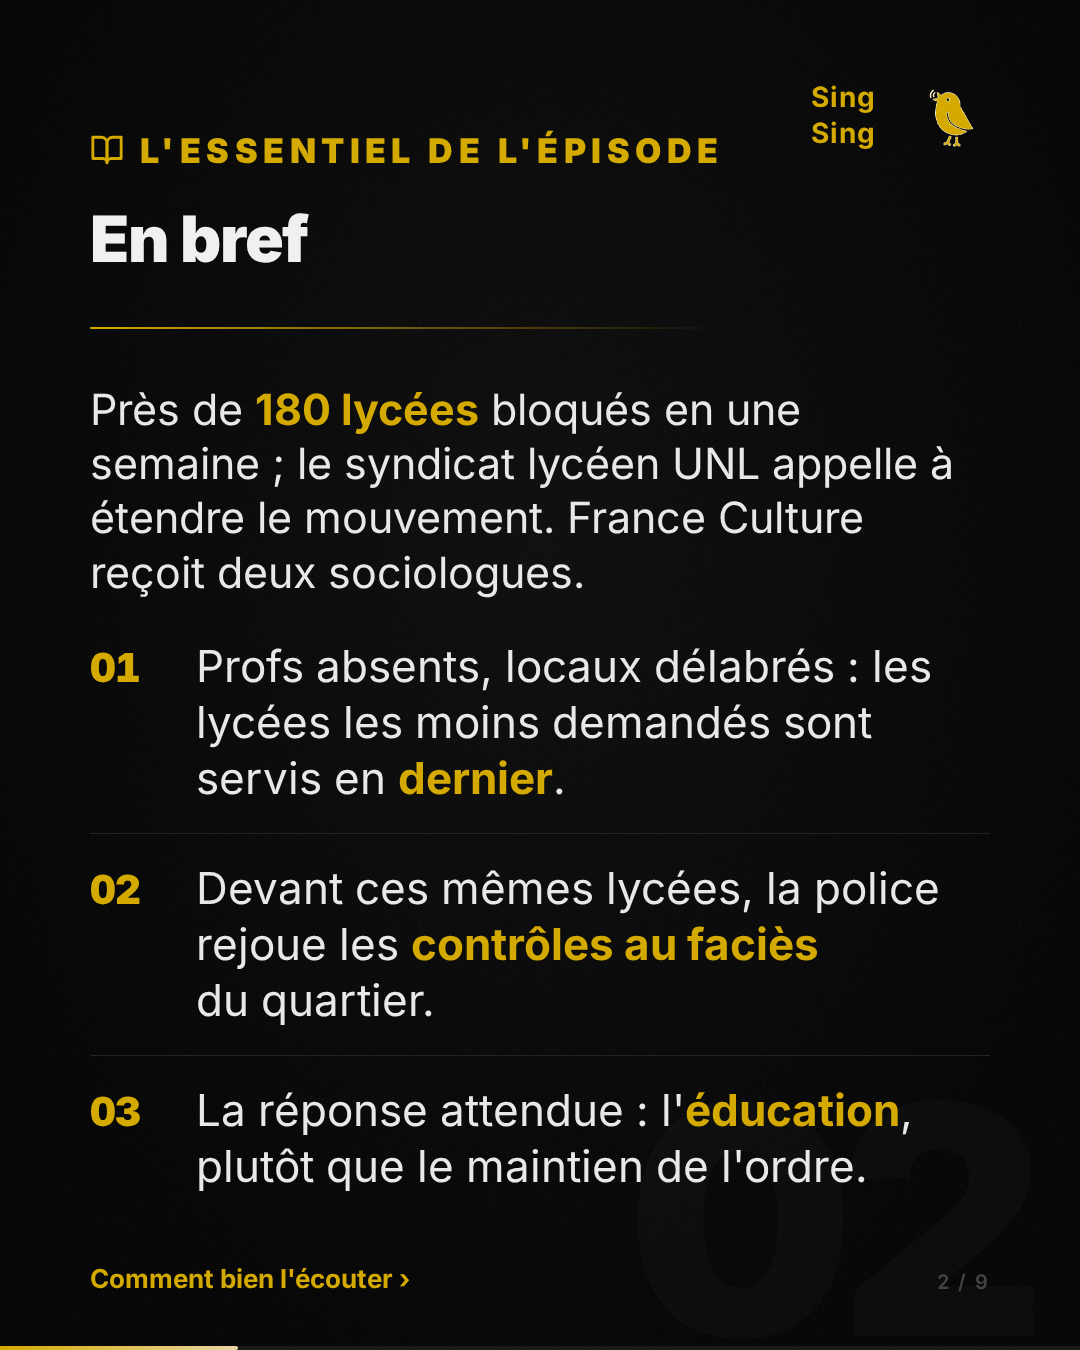
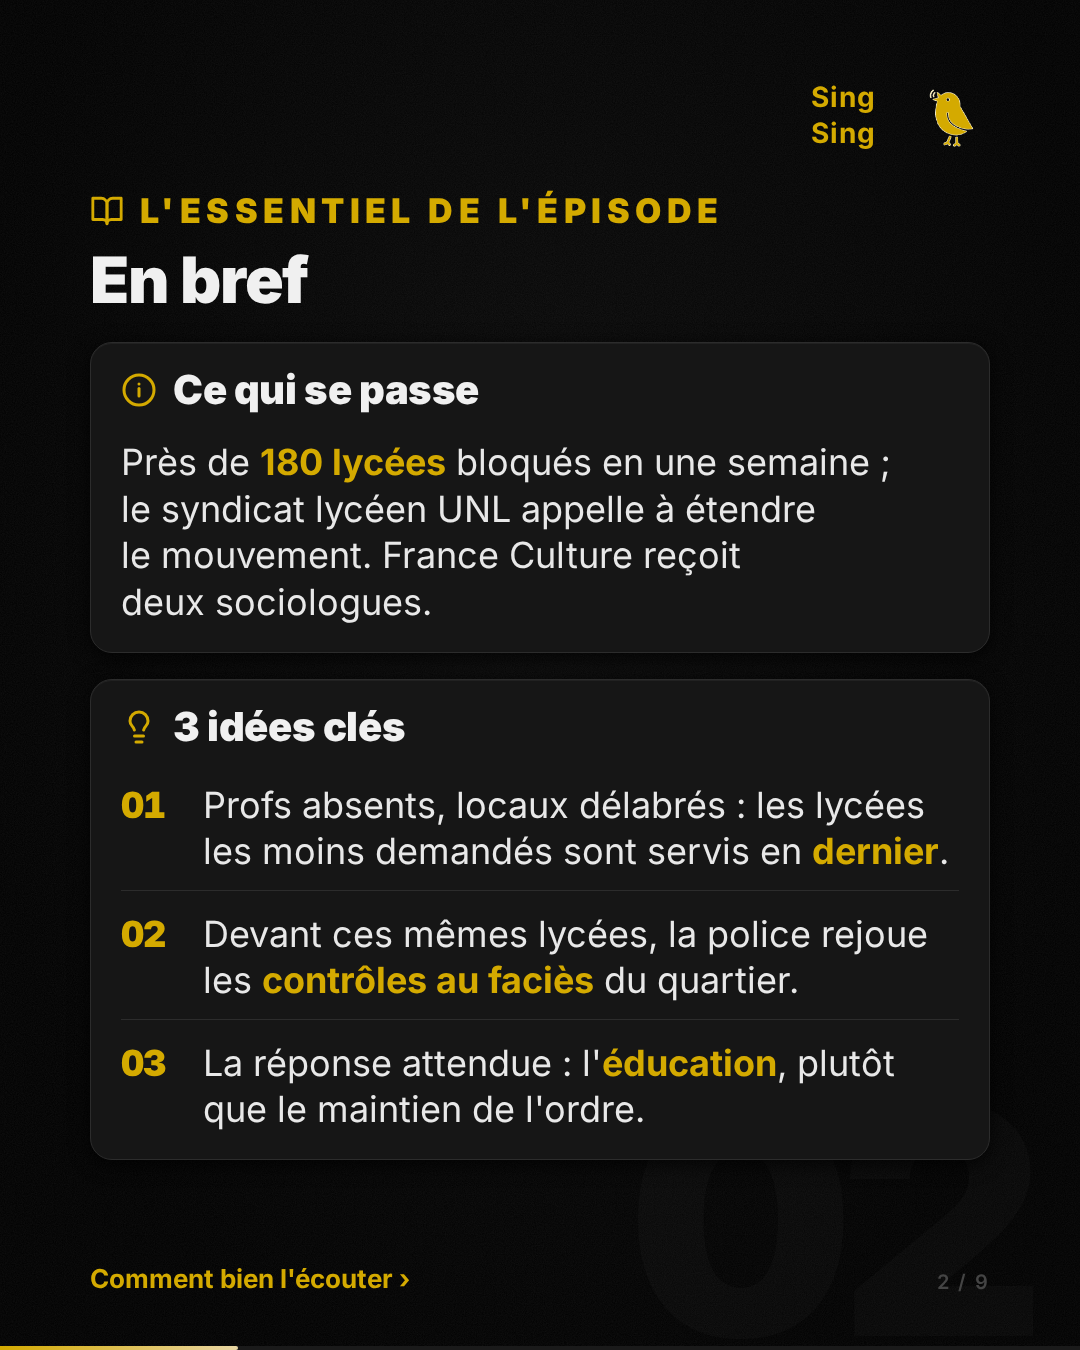
chore(samples): podcast_1 slide 2 in cards

diff --git a/samples/podcasts/podcast_1/instagram_carousel_optimized/html/02_essentiel.html b/samples/podcasts/podcast_1/instagram_carousel_optimized/html/02_essentiel.html
@@ -411,21 +411,26 @@ body {
    items, 0.32em label→body — resolved against this template's body size.
    03_reperes keeps the tighter values: it has no vertical slack left. */
 .sel-stage { flex: 1; display: flex; flex-direction: column; justify-content: center; gap: 33px; }
-.sel-head { font-size: 64px; font-weight: 900; line-height: 1.1; letter-spacing: -0.02em; color: #f0f0f0; text-wrap: balance; }
+.sel-head { font-size: 64px; font-weight: 900; line-height: 1.1; letter-spacing: -0.02em; color: #f0f0f0; text-wrap: balance; margin-top: 14px; }
 /* The dispute, folded in from the old "Pourquoi cet article" slide: it sets up
    the three claims below it. */
-.lede { font-size: 43px; font-weight: 400; line-height: 1.26; color: #e8e8e8; text-wrap: pretty; }
+.lede { font-size: 36px; font-weight: 400; line-height: 1.3; color: #e8e8e8; text-wrap: pretty; text-align: left; hyphens: none; }
 .lede strong { color: #d4aa00; font-weight: 700; }
 .es-summary { font-size: 46px; font-weight: 400; line-height: 1.42; color: #e0e0e0; text-wrap: pretty; }
 .es-summary strong { color: #d4aa00; font-weight: 700; }
-/* The three `essentiel` claims, numbered: three scannable lines instead of one
-   57-word block. Hairline rules separate them — no panels, so the framed look
-   stays reserved for the source capture on slide 1. */
+/* Two cards, as on slides 3 and 8: what happened, then the three `essentiel`
+   claims, numbered — three scannable lines instead of one 57-word block. */
+.sel-stage { gap: 0 !important; }
+.card { background: #161616; border: 1px solid #2c2c2c; border-radius: 22px; padding: 26px 30px 26px; margin-top: 26px; }
+.q-head { display: flex; gap: 16px; align-items: center; margin-bottom: 14px; }
+.q-head svg { width: 36px; height: 36px; flex: none; stroke: #d4aa00; fill: none; stroke-width: 2; stroke-linecap: round; stroke-linejoin: round; }
+.q-label { font-size: 40px; font-weight: 900; line-height: 1.05; letter-spacing: -0.01em; color: #f0f0f0; }
 .pts { display: flex; flex-direction: column; }
-.pt { display: flex; gap: 30px; align-items: baseline; padding: 26px 0; border-top: 1px solid #232323; }
-.pt:first-child { border-top: none; padding-top: 6px; }
-.pt-n { flex: none; width: 76px; font-size: 40px; font-weight: 900; color: #d4aa00; letter-spacing: -.02em; font-variant-numeric: tabular-nums; }
-.pt-t { font-size: 44px; font-weight: 400; line-height: 1.28; color: #e8e8e8; text-wrap: pretty; }
+.pt { display: flex; gap: 22px; align-items: baseline; padding: 16px 0; border-top: 1px solid #2c2c2c; }
+.pt:first-child { border-top: none; padding-top: 2px; }
+.pt:last-child { padding-bottom: 0; }
+.pt-n { flex: none; width: 60px; font-size: 36px; font-weight: 900; color: #d4aa00; letter-spacing: -.02em; font-variant-numeric: tabular-nums; }
+.pt-t { font-size: 36px; font-weight: 400; line-height: 1.28; color: #e8e8e8; text-wrap: pretty; text-align: left; hyphens: none; }
 .pt-t strong { color: #d4aa00; font-weight: 700; }
 </style>
 </head>
@@ -437,10 +442,15 @@ body {
   <div class="sel-stage">
     <span class="kick"><svg viewBox="0 0 24 24"><path d="M2 3h6a4 4 0 0 1 4 4v14a3 3 0 0 0-3-3H2z"/><path d="M22 3h-6a4 4 0 0 0-4 4v14a3 3 0 0 1 3-3h7z"/></svg>L&#39;essentiel de l&#39;épisode</span>
     <h1 class="sel-head">En bref</h1>
-    <div class="divider"></div>
-    <p class="lede">Près de <strong>180 lycées</strong> bloqués en une semaine ; le syndicat lycéen UNL appelle à étendre le mouvement. France Culture reçoit deux sociologues.</p>
-    <div class="pts">
-      <div class="pt"><span class="pt-n">01</span><span class="pt-t">Profs absents, locaux délabrés : les lycées les moins demandés sont servis en <strong>dernier</strong>.</span></div><div class="pt"><span class="pt-n">02</span><span class="pt-t">Devant ces mêmes lycées, la police rejoue les <strong>contrôles au faciès</strong> du quartier.</span></div><div class="pt"><span class="pt-n">03</span><span class="pt-t">La réponse attendue : l&#39;<strong>éducation</strong>, plutôt que le maintien de l&#39;ordre.</span></div>
+    <div class="card">
+      <div class="q-head"><svg viewBox="0 0 24 24"><circle cx="12" cy="12" r="10"/><line x1="12" y1="11" x2="12" y2="16"/><line x1="12" y1="8" x2="12.01" y2="8"/></svg><span class="q-label">Ce qui se passe</span></div>
+      <p class="lede">Près de <strong>180 lycées</strong> bloqués en une semaine ; le syndicat lycéen UNL appelle à étendre le mouvement. France Culture reçoit deux sociologues.</p>
+    </div>
+    <div class="card">
+      <div class="q-head"><svg viewBox="0 0 24 24"><line x1="9" y1="18" x2="15" y2="18"/><line x1="10" y1="22" x2="14" y2="22"/><path d="M15.09 14c.18-.98.65-1.74 1.41-2.5A4.65 4.65 0 0 0 18 8 6 6 0 0 0 6 8c0 1.22.5 2.54 1.5 3.5.76.76 1.23 1.52 1.41 2.5"/></svg><span class="q-label">3 idées clés</span></div>
+      <div class="pts">
+        <div class="pt"><span class="pt-n">01</span><span class="pt-t">Profs absents, locaux délabrés : les lycées les moins demandés sont servis en <strong>dernier</strong>.</span></div><div class="pt"><span class="pt-n">02</span><span class="pt-t">Devant ces mêmes lycées, la police rejoue les <strong>contrôles au faciès</strong> du quartier.</span></div><div class="pt"><span class="pt-n">03</span><span class="pt-t">La réponse attendue : l&#39;<strong>éducation</strong>, plutôt que le maintien de l&#39;ordre.</span></div>
+      </div>
     </div>
   </div>
   <div class="next-hook-bar"><span style="color: #d4aa00; font-weight: 700;">Comment bien l&#39;écouter &#8250;</span></div>

diff --git a/samples/podcasts/podcast_1/instagram_carousel_optimized/html/03_reperes.html b/samples/podcasts/podcast_1/instagram_carousel_optimized/html/03_reperes.html
@@ -426,7 +426,6 @@ body {
 .fact .fl { font-size: 24px; font-weight: 800; letter-spacing: .08em; white-space: nowrap; text-transform: uppercase; color: #d4aa00; }
 .fact .ft { font-size: 31px; line-height: 1.28; color: #e6e6e6; text-wrap: pretty; text-align: left; hyphens: none; }
 .fact .ft strong { color: #f0f0f0; font-weight: 700; }
-.sep2 { width: 120px; height: 3px; background: #d4aa00; margin: 32px 0 36px; }
 .tools { display: flex; flex-direction: column; gap: 22px; }
 .tool { display: grid; grid-template-columns: 96px 1fr; align-items: center; }
 .tool .n { font-size: 54px; font-weight: 900; color: #d4aa00; line-height: 1; font-variant-numeric: tabular-nums; }
